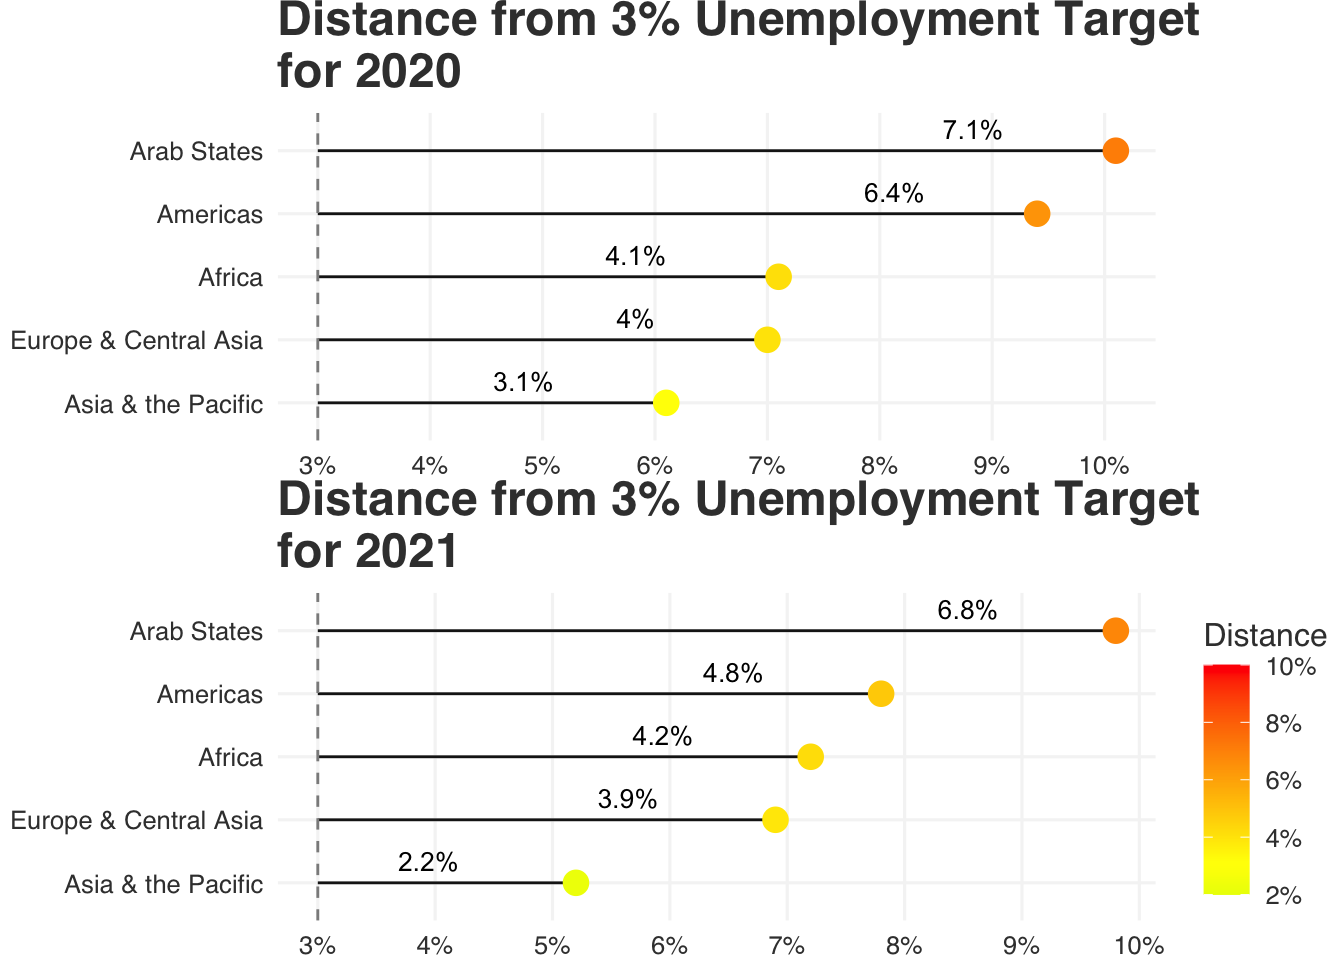
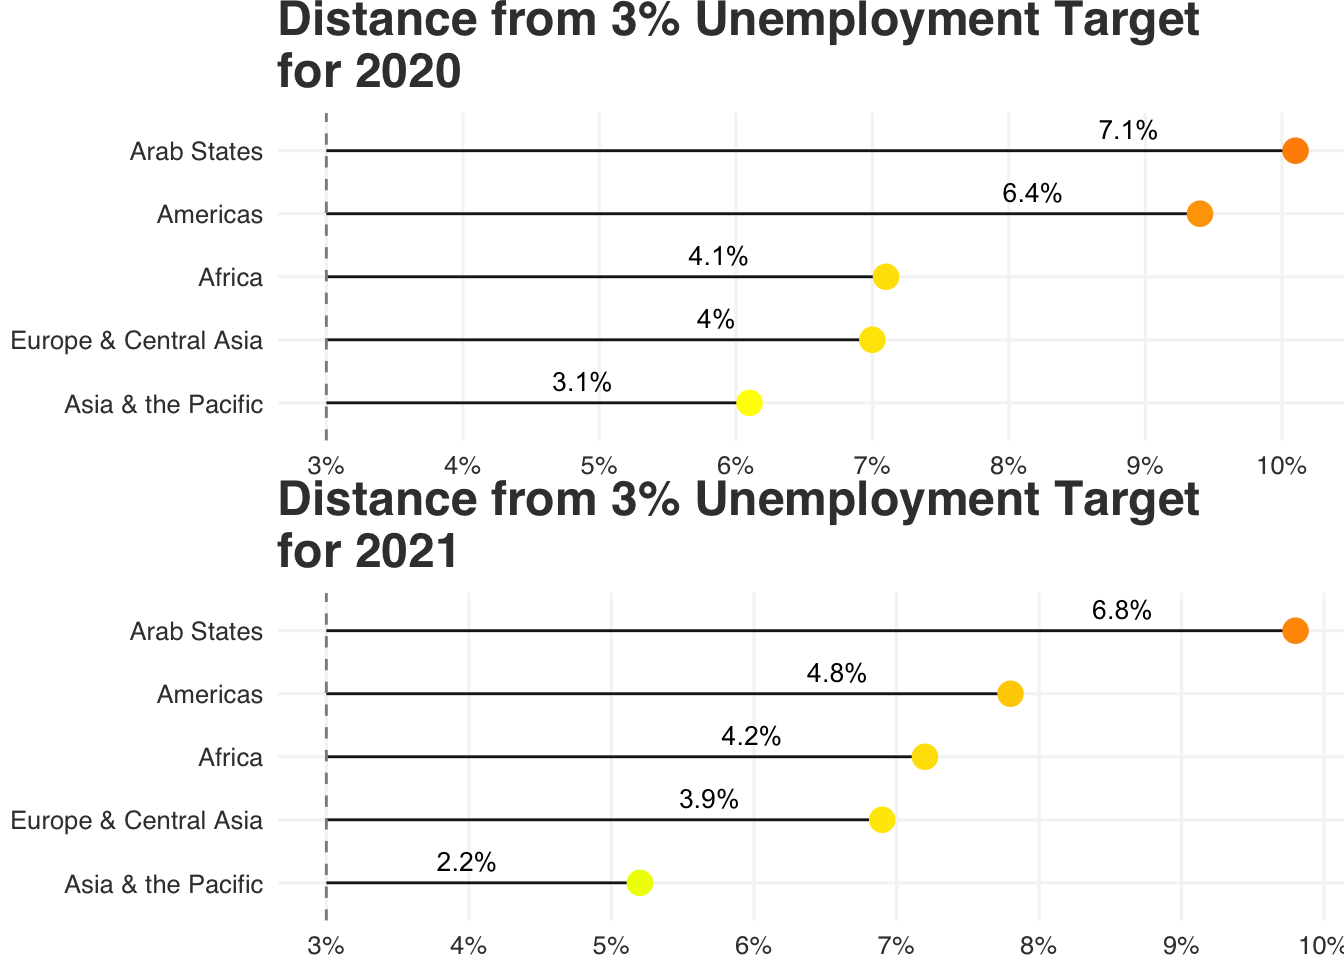
finishing touches

diff --git a/docs/projects/archived_folder/mmonday2025week17_folder/mmonday2025week17.html b/docs/projects/archived_folder/mmonday2025week17_folder/mmonday2025week17.html
@@ -315,15 +315,14 @@ pre > code.sourceCode > span > a:first-child::before { text-decoration: underlin
 <span id="cb3-25"><a href="#cb3-25" aria-hidden="true" tabindex="-1"></a>  <span class="at">legend.background =</span> <span class="fu">element_rect</span>(<span class="at">fill =</span> <span class="cn">NA</span>),</span>
 <span id="cb3-26"><a href="#cb3-26" aria-hidden="true" tabindex="-1"></a>  <span class="at">plot.margin =</span> <span class="fu">margin</span>(<span class="dv">0</span>, <span class="dv">0</span>, <span class="dv">0</span>, <span class="dv">0</span>),</span>
 <span id="cb3-27"><a href="#cb3-27" aria-hidden="true" tabindex="-1"></a>  <span class="at">panel.grid.major =</span> <span class="fu">element_line</span>(<span class="at">color =</span> <span class="st">"grey96"</span>),</span>
-<span id="cb3-28"><a href="#cb3-28" aria-hidden="true" tabindex="-1"></a>  <span class="at">legend.direction =</span> <span class="st">"vertical"</span>,</span>
-<span id="cb3-29"><a href="#cb3-29" aria-hidden="true" tabindex="-1"></a>  <span class="at">legend.position =</span> <span class="st">"right"</span>) <span class="sc">+</span></span>
-<span id="cb3-30"><a href="#cb3-30" aria-hidden="true" tabindex="-1"></a>  <span class="fu">labs</span>(<span class="at">title =</span> <span class="fu">glue</span>(<span class="st">"Distance from 3% Unemployment Target </span></span>
-<span id="cb3-31"><a href="#cb3-31" aria-hidden="true" tabindex="-1"></a><span class="st">for {selected_year}"</span>),</span>
-<span id="cb3-32"><a href="#cb3-32" aria-hidden="true" tabindex="-1"></a>       <span class="at">color =</span> <span class="st">"Distance"</span>)</span>
-<span id="cb3-33"><a href="#cb3-33" aria-hidden="true" tabindex="-1"></a>}</span>
-<span id="cb3-34"><a href="#cb3-34" aria-hidden="true" tabindex="-1"></a></span>
-<span id="cb3-35"><a href="#cb3-35" aria-hidden="true" tabindex="-1"></a><span class="fu">plot_grid</span>(<span class="fu">target_year_plot</span>(<span class="dv">2020</span>) <span class="sc">+</span> <span class="fu">theme</span>(<span class="at">legend.position =</span> <span class="st">"none"</span>), </span>
-<span id="cb3-36"><a href="#cb3-36" aria-hidden="true" tabindex="-1"></a>          <span class="fu">target_year_plot</span>(<span class="dv">2021</span>), <span class="at">ncol =</span> <span class="dv">1</span>, <span class="at">align =</span> <span class="st">"v"</span>)</span></code><button title="Copy to Clipboard" class="code-copy-button"><i class="bi"></i></button></pre></div>
+<span id="cb3-28"><a href="#cb3-28" aria-hidden="true" tabindex="-1"></a>  <span class="at">legend.position =</span> <span class="st">"none"</span>) <span class="sc">+</span></span>
+<span id="cb3-29"><a href="#cb3-29" aria-hidden="true" tabindex="-1"></a>  <span class="fu">labs</span>(<span class="at">title =</span> <span class="fu">glue</span>(<span class="st">"Distance from 3% Unemployment Target </span></span>
+<span id="cb3-30"><a href="#cb3-30" aria-hidden="true" tabindex="-1"></a><span class="st">for {selected_year}"</span>),</span>
+<span id="cb3-31"><a href="#cb3-31" aria-hidden="true" tabindex="-1"></a>       <span class="at">color =</span> <span class="st">"Distance"</span>)</span>
+<span id="cb3-32"><a href="#cb3-32" aria-hidden="true" tabindex="-1"></a>}</span>
+<span id="cb3-33"><a href="#cb3-33" aria-hidden="true" tabindex="-1"></a></span>
+<span id="cb3-34"><a href="#cb3-34" aria-hidden="true" tabindex="-1"></a><span class="fu">plot_grid</span>(<span class="fu">target_year_plot</span>(<span class="dv">2020</span>), </span>
+<span id="cb3-35"><a href="#cb3-35" aria-hidden="true" tabindex="-1"></a>          <span class="fu">target_year_plot</span>(<span class="dv">2021</span>), <span class="at">ncol =</span> <span class="dv">1</span>, <span class="at">align =</span> <span class="st">"v"</span>)</span></code><button title="Copy to Clipboard" class="code-copy-button"><i class="bi"></i></button></pre></div>
 </details>
 <div class="cell-output-display">
 <div>

diff --git a/docs/projects/archived.html b/docs/projects/archived.html
@@ -229,7 +229,7 @@ window.Quarto = {
   </div>
 </div>
 <div class="list grid quarto-listing-cols-3">
-<div class="g-col-1" data-index="0" data-listing-date-sort="1745816400000" data-listing-file-modified-sort="1746050984734" data-listing-date-modified-sort="NaN" data-listing-reading-time-sort="9" data-listing-word-count-sort="1687">
+<div class="g-col-1" data-index="0" data-listing-date-sort="1745816400000" data-listing-file-modified-sort="1746059936367" data-listing-date-modified-sort="NaN" data-listing-reading-time-sort="9" data-listing-word-count-sort="1679">
 <a href="../projects/archived_folder/mmonday2025week17_folder/mmonday2025week17.html" class="quarto-grid-link">
 <div class="quarto-grid-item card h-100 card-left">
 <p class="card-img-top">
